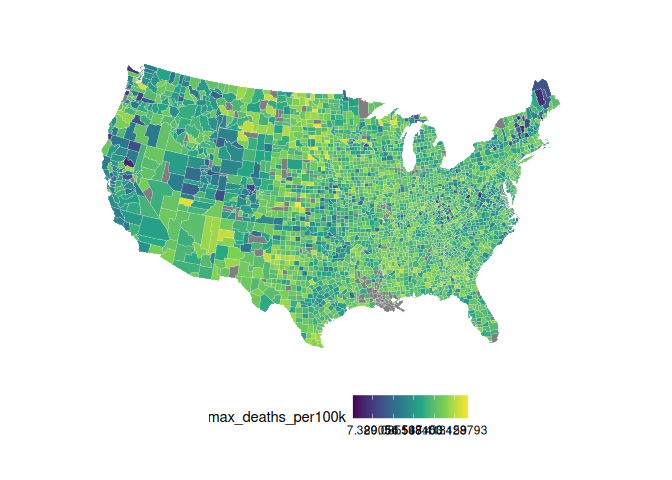
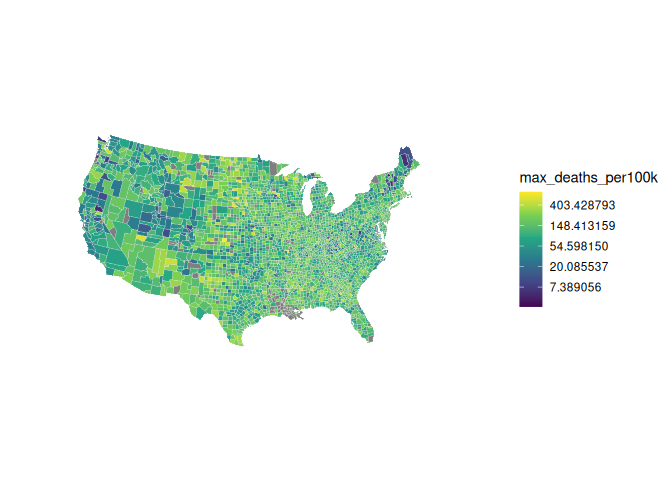
Edit c01 and c06

Changed region(s): [[0.0938, 0.125, 1.0, 0.7188], [0.3125, 0.8125, 0.7188, 0.9062]]

diff --git a/challenges/c01-titanic-assignment.md b/challenges/c01-titanic-assignment.md
@@ -150,19 +150,25 @@ df_titanic %>% summarize(total = sum(n))
 *Note*: There are many ways to do this.
 
 ``` r
-df_titanic %>% 
-  filter(Survived == "Yes") %>% 
-  add_count(Class, Sex, wt = n, name = "true_count") %>% # so that adult + child values are added
-  ggplot(aes(x = Class, y = Sex)) +
-  geom_point(aes(size = true_count))
+# df_titanic %>% 
+#   filter(Survived == "Yes") %>% 
+#   add_count(Class, Sex, wt = n, name = "true_count") %>% # so that adult + child values are added
+#   ggplot(aes(x = Class, y = Sex)) +
+#   geom_point(aes(size = true_count))
+df_titanic %>%
+  filter(Survived == "Yes") %>%
+  ggplot(aes(Class, n, fill = Sex)) +
+  geom_col(position = "dodge")
 ```
 
 ![](c01-titanic-assignment_files/figure-gfm/q3-task-1.png)<!-- -->
 
 **Observations**:
 
-- Mostly male crew members survived, followed by female first class
-  members.
+- The largest gender-class group of survivors is male crew members.
+- In each class from first to third class, more females than males
+  survived, although the discrepancy was more apparent in first and
+  second class.
 
 # Deeper Look
 
@@ -250,9 +256,14 @@ df_prop %>%
 
 - There were very few children reported but the first class ones all
   seem to have survived.
+- There were no child crew members.
+- Among adults, women had a higher chance of survival, but the numbers
+  are more similar among children
 - If you saw something *fishy* in q4 above, use your new plot to explain
   the fishy-ness.
-  - Separating ages prevented ggplot from adding the proportions.
+  - When age was not accounted for, survival percentages across age
+    groups were aggregated via a sum instead of a weighted average,
+    making the survival rates appear larger than they really were.
 
 # Notes
 

diff --git a/challenges/c06-covid19-assignment.md b/challenges/c06-covid19-assignment.md
@@ -700,6 +700,7 @@ mapped_cases_and_deaths <- sorted_cases %>%
     subregion = county_name %>%
       str_extract(., "[\\w|\\s]+,") %>%
       str_remove(., " County,") %>%
+      str_remove(., ",") %>%
       str_to_lower(),
     region = county_name %>%
       str_extract(., ", [\\w|\\s]+") %>%
@@ -718,7 +719,7 @@ mapped_cases_and_deaths %>%
   geom_polygon(color = "gray90", size = 0.1) +
   coord_map(projection = "albers", lat0 = 39, lat1 = 45) +
   scale_fill_continuous(type = "viridis", trans = "log") +
-  theme(legend.position="bottom",
+  theme(legend.position="right",
     axis.line=element_blank(),
     axis.text=element_blank(),
     axis.ticks=element_blank(),
@@ -742,7 +743,7 @@ mapped_cases_and_deaths %>%
   geom_polygon(color = "gray90", size = 0.1) +
   coord_map(projection = "albers", lat0 = 39, lat1 = 45) +
   scale_fill_continuous(type = "viridis", trans = "log") +
-  theme(legend.position="bottom",
+  theme(legend.position="right",
     axis.line=element_blank(),
     axis.text=element_blank(),
     axis.ticks=element_blank(),
